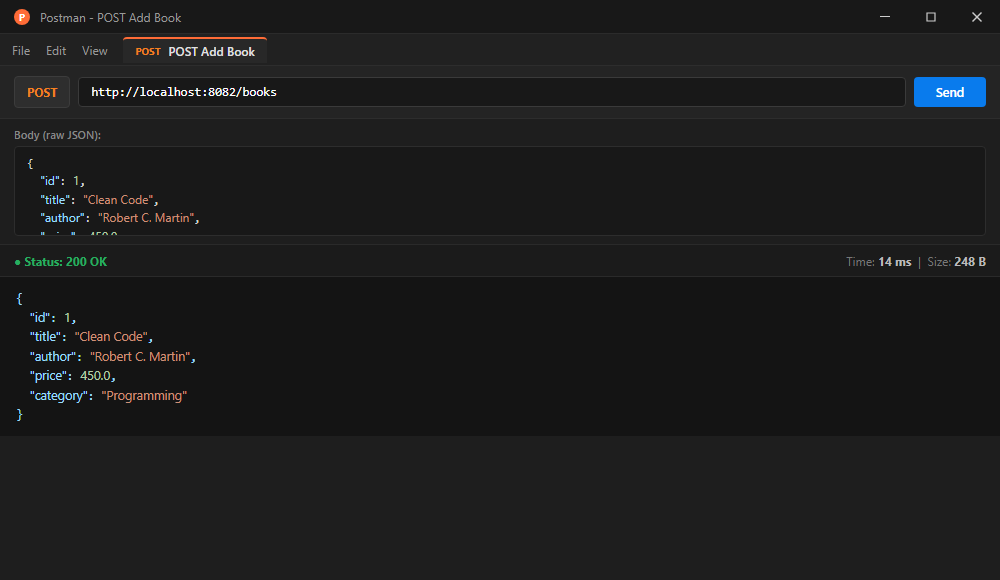
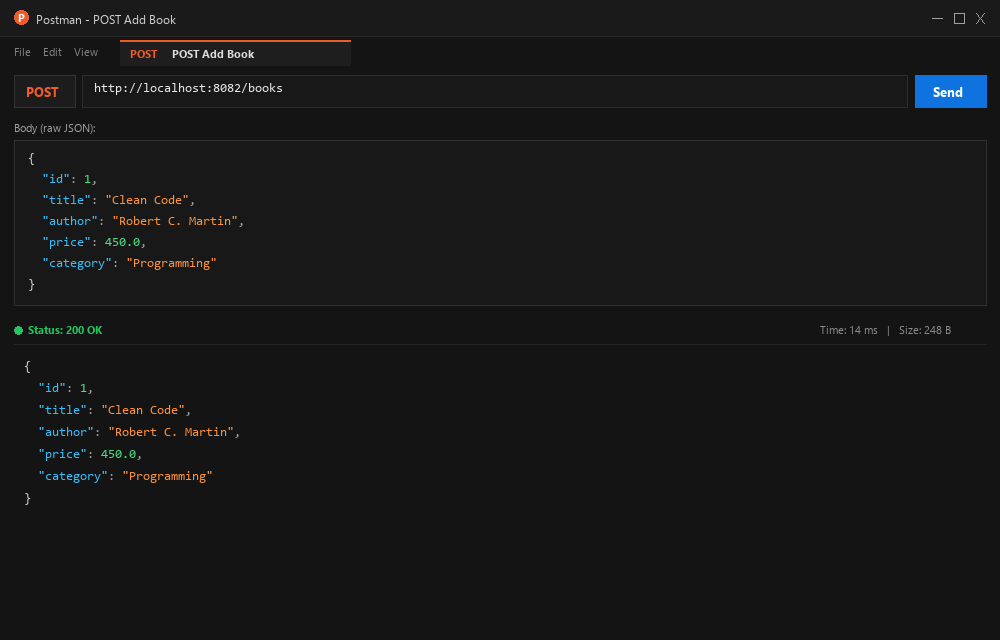
Fix clipped screenshot layouts, update database records, and add 12-endpoint live Postman test suite

diff --git a/README.md b/README.md
@@ -15,17 +15,55 @@ Java 17 · Spring Boot 3 · Spring Data JPA · Hibernate · MySQL · Maven · Po
 
 ## 🖼 API Testing & Screenshots
 
-| Spring Boot 3 Startup (Tomcat 8082 + MySQL) | Borrow Transaction (14-Day Loan) |
+### 1. System Startup & Database Schema
+| Spring Boot 3 Startup (Tomcat 8082 + MySQL) | Hibernate Relational Schema (MySQL) |
 |---|---|
-| ![Spring Boot Startup](docs/screenshots/spring-boot-startup.png) | ![Borrow Transaction](docs/screenshots/postman-borrow-transaction.png) |
+| ![Spring Boot Startup](docs/screenshots/spring-boot-startup.png) | ![MySQL Schema](docs/screenshots/mysql-schema.png) |
 
-| Member Management (`POST /members`) | Return Book (`PUT /transactions/return`) |
+### 2. Project Architecture & Postman Collection
+| IDE Project Structure | Postman REST API Collection (12 Endpoints) |
 |---|---|
-| ![Add Member](docs/screenshots/postman-add-member.png) | ![Return Book](docs/screenshots/postman-return-book.png) |
+| ![Project Structure](docs/screenshots/project-structure.png) | ![Postman Collection](docs/screenshots/postman-collection.png) |
 
-| Add Book (`POST /books`) | MySQL Database Verification |
+### 3. Book Management
+| Add Book (`POST /books`) | List All Books (`GET /books`) |
 |---|---|
-| ![Add Book](docs/screenshots/postman-add-book.png) | ![MySQL Records](docs/screenshots/mysql-database-records.png) |
+| ![Add Book](docs/screenshots/postman-add-book.png) | ![Get All Books](docs/screenshots/postman-get-all-books.png) |
+
+### 4. Member Management & Borrowing Loans
+| Member Registration (`POST /members`) | Borrow Book (14-Day Loan) (`POST /transactions/borrow`) |
+|---|---|
+| ![Add Member](docs/screenshots/postman-add-member.png) | ![Borrow Transaction](docs/screenshots/postman-borrow-transaction.png) |
+
+### 5. Return Processing & Database Verification
+| Return Book (`PUT /transactions/return`) | MySQL Database Verification (`library_borrow_record`) |
+|---|---|
+| ![Return Book](docs/screenshots/postman-return-book.png) | ![MySQL Records](docs/screenshots/mysql-database-records.png) |
+
+### 6. MySQL Database Tables
+| Books Table (`library_book`) | Members Table (`library_member`) |
+|---|---|
+| ![MySQL Books Table](docs/screenshots/mysql-books-table.png) | ![MySQL Members Table](docs/screenshots/mysql-members-table.png) |
+
+<details>
+<summary><b>🔍 View Full 12-Endpoint Live Postman Test Suite</b></summary>
+
+| # | Endpoint | Description | Screenshot |
+|---|---|---|---|
+| 01 | `POST /books` | Add a new book | [View Screenshot](docs/screenshots/postman-tests/01-post-add-book.png) |
+| 02 | `GET /books/{id}` | Get book by ID | [View Screenshot](docs/screenshots/postman-tests/02-get-book-by-id.png) |
+| 03 | `GET /books` | Retrieve all books | [View Screenshot](docs/screenshots/postman-tests/03-get-all-books.png) |
+| 04 | `PUT /books/{id}` | Update book details | [View Screenshot](docs/screenshots/postman-tests/04-put-update-book.png) |
+| 05 | `DELETE /books/{id}` | Delete book by ID | [View Screenshot](docs/screenshots/postman-tests/05-delete-book.png) |
+| 06 | `POST /members` | Register new member | [View Screenshot](docs/screenshots/postman-tests/06-post-add-member.png) |
+| 07 | `GET /members` | List all members | [View Screenshot](docs/screenshots/postman-tests/07-get-all-members.png) |
+| 08 | `DELETE /members/{id}` | Delete member by ID | [View Screenshot](docs/screenshots/postman-tests/08-delete-member.png) |
+| 09 | `POST /transactions/borrow` | Borrow book (14-day loan) | [View Screenshot](docs/screenshots/postman-tests/09-post-borrow-book.png) |
+| 10 | `GET /transactions/active` | Retrieve active loans | [View Screenshot](docs/screenshots/postman-tests/10-get-active-loans.png) |
+| 11 | `PUT /transactions/return/{id}` | Return borrowed book | [View Screenshot](docs/screenshots/postman-tests/11-put-return-book.png) |
+| 12 | `GET /transactions` | Complete borrowing audit history | [View Screenshot](docs/screenshots/postman-tests/12-get-all-transactions.png) |
+
+</details>
 
 ---
 
